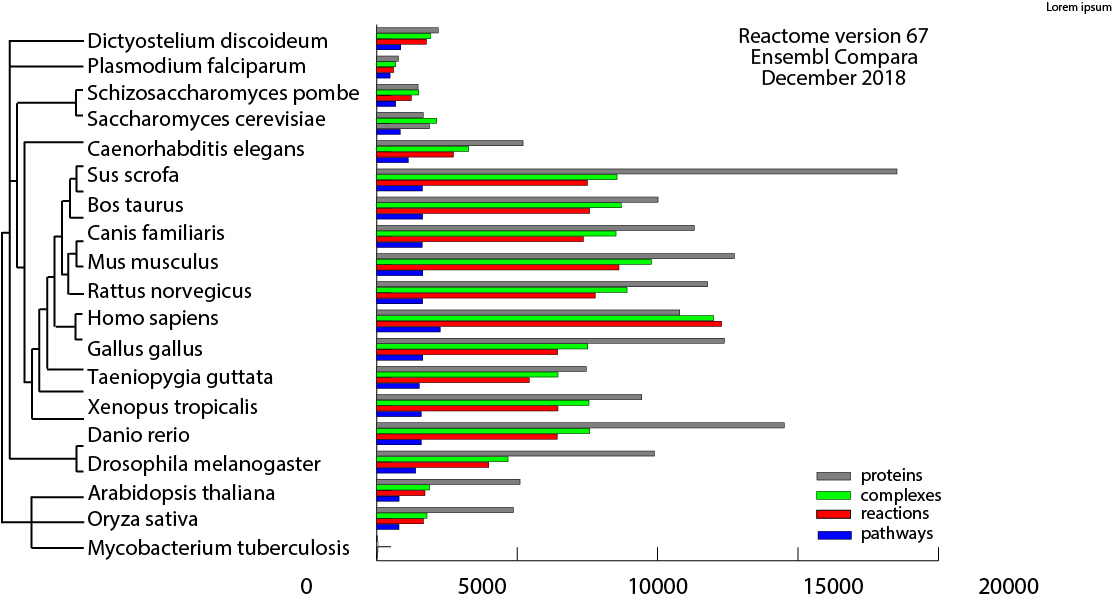
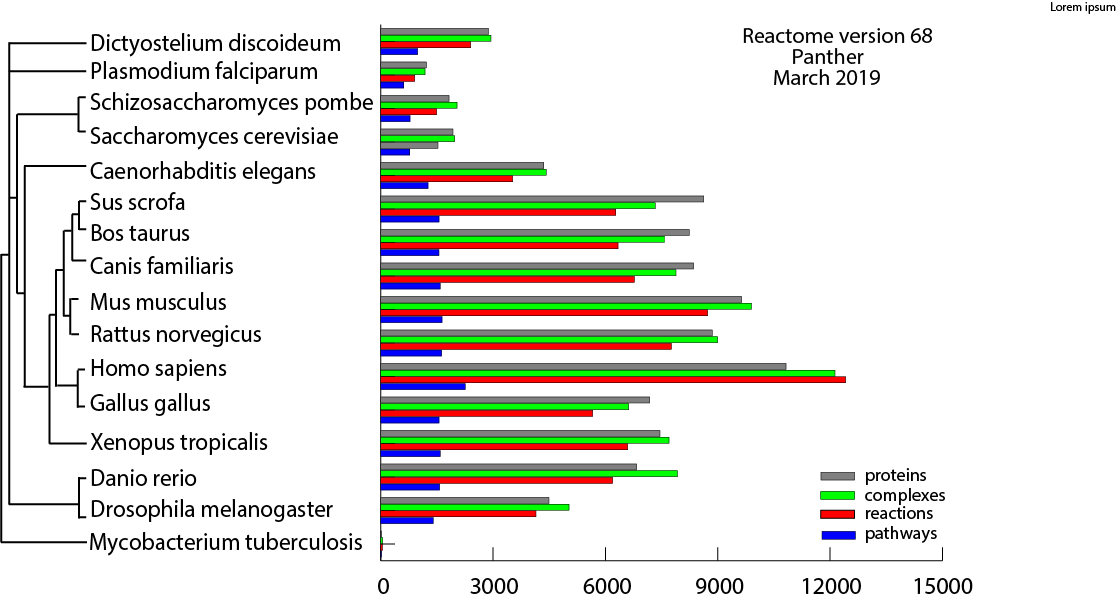
version 68

diff --git a/scripts/release/website_files_update/stats.html b/scripts/release/website_files_update/stats.html
@@ -11,139 +11,118 @@
         <tbody>
     <tr>
         <td data-label="SPECIES">D. discoideum</td>
-        <td data-label="">2185</td>
-        <td data-label="">1926</td>
-        <td data-label="">1770</td>
-        <td data-label="">856</td>
+        <td data-label="">2875</td>
+        <td data-label="">2943</td>
+        <td data-label="">2402</td>
+        <td data-label="">984</td>
     </tr>
     <tr>
         <td data-label="SPECIES">P. falciparum</td>
-        <td data-label="">771</td>
-        <td data-label="">672</td>
-        <td data-label="">602</td>
-        <td data-label="">472</td>
+        <td data-label="">1217</td>
+        <td data-label="">1182</td>
+        <td data-label="">904</td>
+        <td data-label="">616</td>
     </tr>
     <tr>
         <td data-label="SPECIES">S. pombe</td>
-        <td data-label="">1471</td>
-        <td data-label="">1493</td>
-        <td data-label="">1226</td>
-        <td data-label="">674</td>
+        <td data-label="">1823</td>
+        <td data-label="">2037</td>
+        <td data-label="">1488</td>
+        <td data-label="">781</td>
     </tr>
     <tr>
         <td data-label="SPECIES">S. cerevisiae</td>
-        <td data-label="">1652</td>
-        <td data-label="">2135</td>
-        <td data-label="">1873</td>
-        <td data-label="">833</td>
+        <td data-label="">1927</td>
+        <td data-label="">1969</td>
+        <td data-label="">1526</td>
+        <td data-label="">776</td>
     </tr>
     <tr>
         <td data-label="SPECIES">C. elegans</td>
-        <td data-label="">5211</td>
-        <td data-label="">3269</td>
-        <td data-label="">2727</td>
-        <td data-label="">1117</td>
+        <td data-label="">4354</td>
+        <td data-label="">4418</td>
+        <td data-label="">3523</td>
+        <td data-label="">1264</td>
     </tr>
     <tr>
         <td data-label="SPECIES">S. scrofa</td>
-        <td data-label="">18525</td>
-        <td data-label="">8557</td>
-        <td data-label="">7501</td>
-        <td data-label="">1624</td>
+        <td data-label="">8625</td>
+        <td data-label="">7328</td>
+        <td data-label="">6277</td>
+        <td data-label="">1555</td>
     </tr>
     <tr>
         <td data-label="SPECIES">B. taurus</td>
-        <td data-label="">10016</td>
-        <td data-label="">8702</td>
-        <td data-label="">7577</td>
-        <td data-label="">1629</td>
+        <td data-label="">8236</td>
+        <td data-label="">7581</td>
+        <td data-label="">6336</td>
+        <td data-label="">1554</td>
     </tr>
     <tr>
         <td data-label="SPECIES">C. familiaris</td>
-        <td data-label="">11304</td>
-        <td data-label="">8521</td>
-        <td data-label="">7353</td>
-        <td data-label="">1615</td>
+        <td data-label="">8354</td>
+        <td data-label="">7882</td>
+        <td data-label="">6771</td>
+        <td data-label="">1586</td>
     </tr>
     <tr>
         <td data-label="SPECIES">M. musculus</td>
-        <td data-label="">12734</td>
-        <td data-label="">9778</td>
-        <td data-label="">8622</td>
-        <td data-label="">1637</td>
+        <td data-label="">9636</td>
+        <td data-label="">9900</td>
+        <td data-label="">8727</td>
+        <td data-label="">1638</td>
     </tr>
     <tr>
         <td data-label="SPECIES">R. norvegicus</td>
-        <td data-label="">11780</td>
-        <td data-label="">8914</td>
-        <td data-label="">7776</td>
-        <td data-label="">1630</td>
+        <td data-label="">8852</td>
+        <td data-label="">8995</td>
+        <td data-label="">7761</td>
+        <td data-label="">1624</td>
     </tr>
     <tr>
         <td data-label="SPECIES">*H. sapiens</td>
-        <td data-label="">10792</td>
-        <td data-label="">11995</td>
-        <td data-label="">12278</td>
-        <td data-label="">2256</td>
+        <td data-label="">10825</td>
+        <td data-label="">12131</td>
+        <td data-label="">12416</td>
+        <td data-label="">2255</td>
     </tr>
     <tr>
         <td data-label="SPECIES">G. gallus</td>
-        <td data-label="">12377</td>
-        <td data-label="">7517</td>
-        <td data-label="">6436</td>
-        <td data-label="">1637</td>
-    </tr>
-    <tr>
-        <td data-label="SPECIES">T. guttata</td>
-        <td data-label="">7458</td>
-        <td data-label="">6452</td>
-        <td data-label="">5428</td>
-        <td data-label="">1508</td>
+        <td data-label="">7181</td>
+        <td data-label="">6620</td>
+        <td data-label="">5658</td>
+        <td data-label="">1557</td>
     </tr>
     <tr>
         <td data-label="SPECIES">X. tropicalis</td>
-        <td data-label="">9439</td>
-        <td data-label="">7553</td>
-        <td data-label="">6453</td>
-        <td data-label="">1582</td>
+        <td data-label="">7456</td>
+        <td data-label="">7699</td>
+        <td data-label="">6594</td>
+        <td data-label="">1588</td>
     </tr>
     <tr>
         <td data-label="SPECIES">D. rerio</td>
-        <td data-label="">14508</td>
-        <td data-label="">7588</td>
-        <td data-label="">6425</td>
-        <td data-label="">1581</td>
+        <td data-label="">6831</td>
+        <td data-label="">7923</td>
+        <td data-label="">6192</td>
+        <td data-label="">1570</td>
     </tr>
     <tr>
         <td data-label="SPECIES">D. melanogaster</td>
-        <td data-label="">9888</td>
-        <td data-label="">4676</td>
-        <td data-label="">3990</td>
-        <td data-label="">1386</td>
-    </tr>
-    <tr>
-        <td data-label="SPECIES">A. thaliana</td>
-        <td data-label="">5102</td>
-        <td data-label="">1878</td>
-        <td data-label="">1716</td>
-        <td data-label="">792</td>
-    </tr>
-    <tr>
-        <td data-label="SPECIES">O. sativa</td>
-        <td data-label="">4864</td>
-        <td data-label="">1784</td>
-        <td data-label="">1662</td>
-        <td data-label="">789</td>
+        <td data-label="">4490</td>
+        <td data-label="">5027</td>
+        <td data-label="">4143</td>
+        <td data-label="">1399</td>
     </tr>
     <tr>
         <td data-label="SPECIES">M. tuberculosis</td>
+        <td data-label="">18</td>
+        <td data-label="">49</td>
+        <td data-label="">44</td>
         <td data-label="">13</td>
-        <td data-label="">47</td>
-        <td data-label="">39</td>
-        <td data-label="">12</td>
     </tr>
         </tbody>
     </table>
 </div>
 <p></p>
-<p>*Reactome annotates to protein isoforms when this information is available. The total number of curated human proteins including isoforms is 10966</p>
+<p>*Reactome annotates to protein isoforms when this information is available. The total number of curated human proteins including isoforms is 11000</p>
